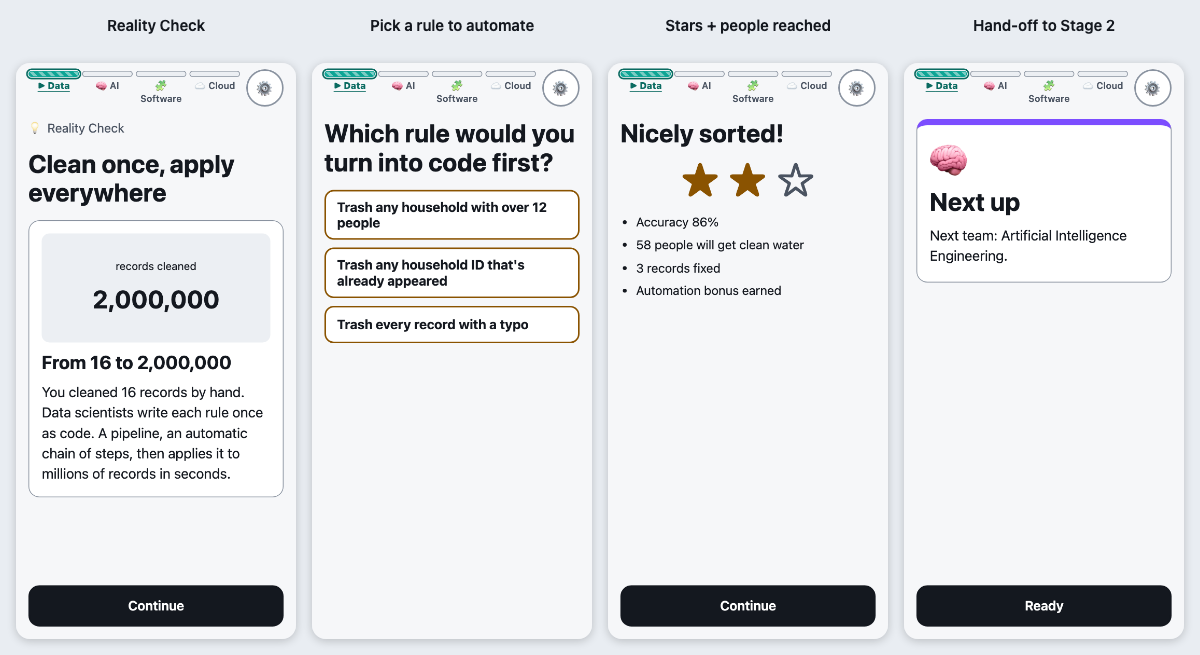
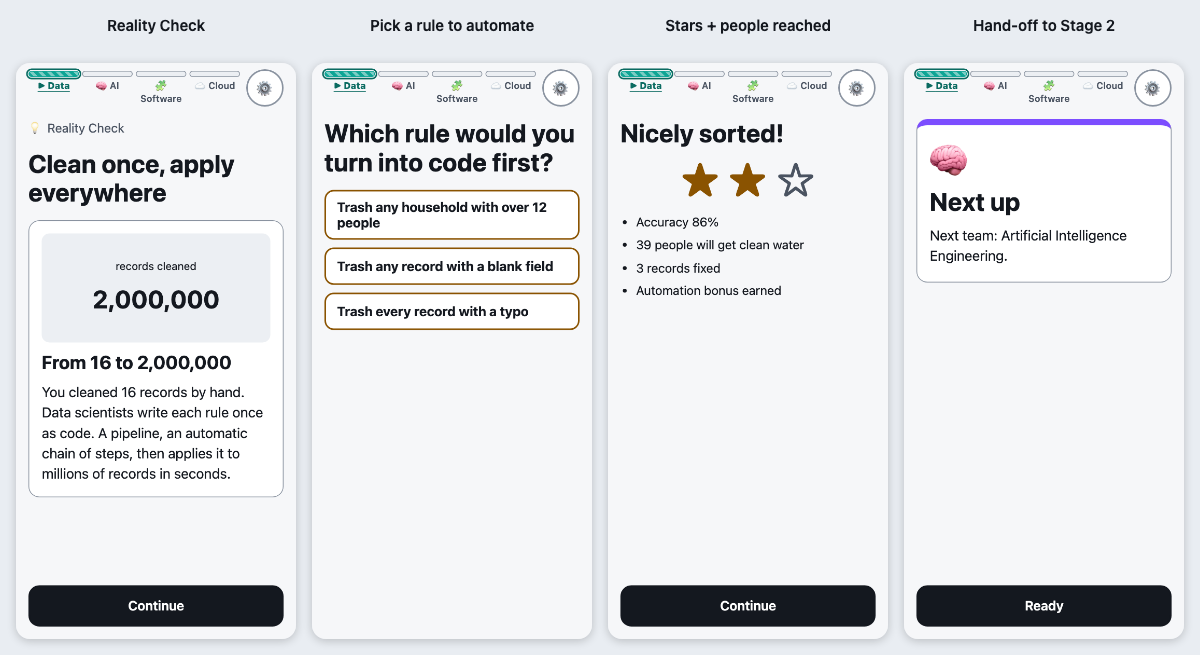
Stage 1: Level 2 only adds Fix (no duplicates or outliers); automate question is now blank fields; expected timings in spec

Changed region(s): [[0.2467, 0.3969, 0.4933, 0.5191], [0.5242, 0.3664, 0.555, 0.3969]]

diff --git a/src/stages/data/logic.test.ts b/src/stages/data/logic.test.ts
@@ -466,7 +466,7 @@ describe('scoring', () => {
   });
 
   // Hand-computed runs, one per star band.
-  it('3★ careful player: 19/20, one early miss, picks dupes', () => {
+  it('3★ careful player: 19/20, one early miss, picks blanks', () => {
     // L1 perfect = 10. L2: one wrong at card 1 (w=1, no hint) → 9. 19/20 = 0.95.
     const acc = dataAccuracy([play(l1, 2, 'RRRRRRRRRR'), play(l2, 2, 'WRRRRRRRRR')]);
     expect(acc).toBeCloseTo(0.95);
@@ -476,7 +476,7 @@ describe('scoring', () => {
     expect(dataStars(stageScore({ accuracy: acc, ruleChosen: false, outlier: null }), STARS)).toBe(2); // 0.855
   });
 
-  it('2★ first-timer: 15/20 right with hints, picks dupes', () => {
+  it('2★ first-timer: 15/20 right with hints, picks blanks', () => {
     // L1: wrongs at 2,6 → card 7 hinted (0.75): 7 + 0.75 = 7.75.
     // L2: wrongs at 3,5,8 → card 6 hinted (0.75), card 9 answered (0.5): 5 + 0.75 + 0.5 = 6.25.
     const acc = dataAccuracy([play(l1, 3, 'RWRRRWRRRR'), play(l2, 3, 'RRWRWRRWRR')]);
@@ -510,9 +510,9 @@ describe('scoring', () => {
   it('isRuleChosen', () => {
     const opts = [
       { id: 'big-households', correct: false },
-      { id: 'dupes', correct: true },
+      { id: 'blanks', correct: true },
     ];
-    expect([isRuleChosen(opts, 'dupes'), isRuleChosen(opts, 'big-households'), isRuleChosen(opts, null)]).toEqual([true, false, false]);
+    expect([isRuleChosen(opts, 'blanks'), isRuleChosen(opts, 'big-households'), isRuleChosen(opts, null)]).toEqual([true, false, false]);
   });
 
   it('dataStars maps thresholds at the edges', () => {
@@ -609,7 +609,7 @@ describe.skipIf(!recordsJson)('content: records.json cross-check (skipped: src/c
             if (r.duplicateOf) expect(i - deck.findIndex((o) => o.id === r.duplicateOf), tag).toBeGreaterThanOrEqual(2);
           });
         }
-        if (level.id === 'data-l2') expect(deck.some((r) => r.rule === 5), tag).toBe(true);
+        if (level.id !== 'data-tutorial' && level.rules.includes(5)) expect(deck.some((r) => r.rule === 5), tag).toBe(true);
       }
     }
   });

diff --git a/e2e/stage1.spec.ts b/e2e/stage1.spec.ts
@@ -35,7 +35,7 @@ test('Stage 1: perfect play earns 3 stars and hands off to Stage 2', async ({ pa
   // Reality Check → automate → stars → hand-off.
   await expect(page.getByRole('heading', { name: 'Clean once, apply everywhere' })).toBeVisible();
   await page.getByRole('button', { name: 'Continue' }).click();
-  await page.getByRole('button', { name: /already/i }).click();
+  await page.getByRole('button', { name: /blank field/i }).click();
   await page.getByRole('button', { name: 'Continue' }).click();
   await expect(page.getByText('3 of 3 stars').first()).toBeAttached();
   await page.getByRole('button', { name: 'Continue' }).click();

diff --git a/src/stages/data/logic.ts b/src/stages/data/logic.ts
@@ -506,7 +506,7 @@ export function outlierBonus(judgements: readonly OutlierJudgement[], chartCount
   return clamp(sum / chartCount, 0, 1);
 }
 
-/** Reality Check pick: true iff the picked automate option is the one marked correct ("dupes"). */
+/** Reality Check pick: true iff the picked automate option is the one marked correct ("blanks"). */
 export function isRuleChosen(options: readonly { id: string; correct: boolean }[], pickedId: string | null): boolean {
   return !!pickedId && options.some((o) => o.id === pickedId && o.correct);
 }

diff --git a/e2e/group.spec.ts b/e2e/group.spec.ts
@@ -355,7 +355,7 @@ test('hand-off: the next main player is named and taps Ready on their own phone'
     await playCards(ben);
   }
   await ben.getByRole('button', { name: 'Continue' }).click();
-  await ben.getByRole('button', { name: /already/i }).click();
+  await ben.getByRole('button', { name: /blank field/i }).click();
   await ben.getByRole('button', { name: 'Continue' }).click();
   await ben.getByRole('button', { name: 'Continue' }).click();
   // Ben's hand-off card names Ann; Ann's phone offers Ready.

diff --git a/src/content/stage1Schema.ts b/src/content/stage1Schema.ts
@@ -157,7 +157,7 @@ export const stage1CopySchema = z.object({
   }),
   automate: z.object({
     question: words(12),
-    options: z.object({ dupes: words(10), 'big-households': words(10), typos: words(10) }),
+    options: z.object({ blanks: words(10), 'big-households': words(10), typos: words(10) }),
     right: words(20),
     wrong: words(20),
   }),

diff --git a/docs/GAME_SPEC.md b/docs/GAME_SPEC.md
@@ -65,15 +65,18 @@ One length for everyone: **≈ 16 min of play** (core levels). It fits the 20-mi
 
 **Team timing:** the player's phone owns the level timer. Hand-off cards (where the turn passes) are short, about 10s, with a "Ready" tap from the next player's phone.
 
-| Segment | Time | Content |
-|---|---|---|
-| Prologue | 1 min | Mission briefing, 10-sec "how to play" |
-| Stage 1: Data | 3 min | §4 |
-| Stage 2: AI | 3 min | §5 |
-| Stage 3: Problem solving | 3 min | §6 |
-| Stage 4: Cloud/SRE | 3 min | §7 |
-| Finale: Mission Live | 2 min | §8 |
-| Debrief & roles | 1 min | §8.3 |
+| Segment | Budget | Expected, first-timer (2026-10-17) | Content |
+|---|---|---|---|
+| Prologue | 1 min | ~0.5 min | Mission briefing, 10-sec "how to play" |
+| Stage 1: Data | 3 min | ~2.5–3 min (estimate) | §4 |
+| Stage 2: AI | 3 min | ~2–2.5 min (QA measured 127 s) | §5 |
+| Stage 3: Problem solving | 3 min | ~4 min (QA measured 241 s; the long one) | §6 |
+| Stage 4: Cloud/SRE | 3 min | ~3 min (estimate after the 45 s storms) | §7 |
+| Finale: Mission Live | 2 min | ~2 min | §8 |
+| Debrief & roles | 1 min | ~1 min | §8.3 |
+| **Total** | **16 min** | **~15 min solo** (13–17); a team adds ~1–2 min for the lobby and hand-offs | |
+
+Replays with bonus levels add roughly: Stage 1 +1 min, Stage 2 +1 min, Stage 3 +2 min. These are QA simulations and estimates; confirm in playtests (`docs/PLAYTEST_NOTES.md`).
 
 Each stage follows the same rhythm, so players learn the pattern:
 
@@ -191,23 +194,23 @@ Nicknames, device info, IPs, emails and any personal data are **never stored**. 
 A pinned "📘 Rulebook" button opens a bottom sheet. Show the **one new rule** as a card before each level. Rules:
 1. **Every field must be filled.** Missing sector or people count means Trash.
 2. **Numbers must make sense.** People 1–15, water 5–200 L per household.
-3. **No duplicates.** Same household ID twice means trash the second.
+3. **No duplicates.** Same household ID twice means trash the second. *(Not dealt since 2026-10-17: kept in the rulebook data only.)*
 4. **Fix what's fixable.** Typos (`Sectr B` → `B`), wrong units (`40000 ml` → `40 L`), lowercase (`b` → `B`).
-5. **Outlier ≠ error.** A household of 14 is unusual but possible, so keep it.
+5. **Outlier ≠ error** *(bonus Spot the Outlier only)*. A household of 14 is unusual but possible, so keep it.
 
 ### 4.2 Levels
 | Level | Mechanic | Rules in play | Size / time |
 |---|---|---|---|
 | Tutorial | Swipe 3 obvious cards with an animated hand hint | 1 | 3 cards, untimed |
 | L1 Keep or Trash | Swipe right = keep, left = trash (buttons also available) | 1–2 | 8 cards / 60s |
-| L2 Keep, Fix or Trash | Swipe up (or Fix button) opens a quick-fix picker with 2–3 options. New: duplicates and fixes | 1–5 | 8 cards / 90s |
+| L2 Keep, Fix or Trash | Swipe up (or Fix button) opens a quick-fix picker with 2–3 options. New: fixes only | 1, 2, 4 | 8 cards / 90s |
 | Bonus L3 Spot the Outlier | Bar chart of 20 households; tap bars that are **errors** (not just unusual) | 2, 5 | 3 charts / 45s |
 
 - On an error, show a one-line toast naming the rule broken ("Rule 3: duplicate").
 - **Hook (2026-10-17):** the briefing goes straight into the tutorial, which opens on a clean card, so the first swipe is a win within seconds. A **💧 people reached** counter grows with every record correctly kept or fixed. A **rule strip** above the card shows the rules in play as short chips ("Blank field → Trash", "People 1–15, water 5–200 L"…), so nobody has to memorise them.
 
 ### 4.3 Reality Check: "Clean once, apply everywhere"
-Animation: the player's 16 hand-sorted cards shrink, then a counter shoots up to **2,000,000 records**. Text: *"You cleaned 16 by hand. Data scientists write each rule once as code, and a pipeline applies it to millions of rows in seconds."* The player then gets **one tap** to choose which rule to automate (3 options). The correct choice gives a bonus.
+Animation: the player's 16 hand-sorted cards shrink, then a counter shoots up to **2,000,000 records**. Text: *"You cleaned 16 by hand. Data scientists write each rule once as code, and a pipeline applies it to millions of rows in seconds."* The player then gets **one tap** to choose which rule to automate (3 options): *trash records with a blank field* (correct: a blank can never be guessed), *trash households over 12 people* (bins real data) or *trash every typo* (typos can be fixed). The correct choice gives a bonus.
 
 ### 4.4 Content needed
 - `records.json`: ≥ 40 records (so replays vary), each with `valid | fixable | invalid`, the fix options, and the rule id. **`[FILL]` optional: local place or sector names.**

diff --git a/docs/DECISIONS.md b/docs/DECISIONS.md
@@ -216,3 +216,4 @@
 | 2026-10-17 | Clean-up | Removed the unused app-wide submit queue (team play has its own in `src/net/group/submit.ts`); stale support-card / full-mode comments; buttons now left-align their label and push only the grey detail to the right. | No |
 | 2026-10-17 | Docs | `docs/GAME_FLOWS.md` regenerated from a local build with real Supabase Realtime (`e2e-live/capture-flows.mjs`); `e2e-live/group-live.mjs` and `race.mjs` updated to the team flow. | No |
 | 2026-10-17 | Stage 1 easier, round 2 (owner: "still quite hard") | **Owner chose:** (A) an always-visible **rule strip** of short chips above the card (`rulebook.json` `chip`, `RuleStrip` in `src/components/Rulebook.tsx`); (B) more time: Level 1 60 s (was 45), Level 2 90 s (was 60); (C) Level 2 is 8 cards (was 10). Reality Check fallback count follows the content (now 16). Not changed: duplicates stay in Level 2, stars 30/65/88%. | Done |
+| 2026-10-17 | Stage 1 easier, round 3 (owner) | **Owner: no duplicates or outliers in Stage 1; Level 2 just adds Fix.** Level 2 rules 1, 2, 4 (new: 4). Rule 5 is introduced on the bonus Spot the Outlier (its intro shows the rule-5 card). Rule 3 (duplicates) is no longer dealt anywhere; it stays in `rulebook.json` (the schema needs 5 rules). Rule 2's card drops the "14 people? Keep" line. **Automate question** now: correct = "Trash any record with a blank field" (id `blanks`, a blank can never be guessed); wrong = over-12 households (real data), every typo (fixable). | Done |

diff --git a/docs/OWNER_INPUTS.md b/docs/OWNER_INPUTS.md
@@ -20,7 +20,7 @@ Try it: https://digital-vocation-activity.vercel.app/?debug=1&stage=1
 - [x] **5. Level sizes:** *Closed 2026-10-17 (Stage 1 hook): tutorial 3 cards, Level 1 is 8 cards in 60 s, Level 2 is 8 cards in 90 s, with the rules always shown above the card.*
 - [x] **6. Rules per level:** *Closed 2026-10-17 (Stage 1 hook): Level 1 adds rule 2 only; Level 2 adds duplicates and fixes (3, 4); rule 5 is folded into rule 2's card.*
 - [ ] **7. Stars:** 1★ at 30%, 2★ at 65%, 3★ at 88%. A careful player gets about 3★ and a first-timer about 2★. *Default: keep.*
-- [ ] **8. Automate question:** "Which rule would you turn into code first?" The correct answer is "trash repeated household IDs". The wrong answers are "trash households over 12 people" and "trash every typo". *Default: keep.*
+- [ ] **8. Automate question:** "Which rule would you turn into code first?" The correct answer is "trash any record with a blank field" (changed 2026-10-17: duplicates are no longer in Stage 1). The wrong answers are "trash households over 12 people" and "trash every typo". *Default: keep.*
 - [x] **9. Full mode is short:** Stage 1 takes about 2.6 min against the 5–6 min budget. *Default: add content after the M8 playtests.* *Closed 2026-10-17: Solo/Team simplification (no full mode / no support cards).*
 - [ ] **10. Extra Rulebook examples:** these aren't in the spec: "People: 0", "Water: 900 L", "ID 1042 (second time)". *Default: keep.*
 

diff --git a/docs/GAME_FLOWS.md b/docs/GAME_FLOWS.md
@@ -38,7 +38,7 @@ Home → **Play solo** → the mission → the Stage 1 briefing → the first ca
 ![Solo start](flows/solo-start.png)
 
 ### Stage 1: Clean the Data (the hook)
-The tutorial opens on a clean card, so the first swipe is a win. Level 1 teaches **one** new rule (numbers must make sense). Every good card adds to the **💧 people reached** counter. Level 2 brings in duplicates and the **Fix** button.
+The tutorial opens on a clean card, so the first swipe is a win. Level 1 teaches **one** new rule (numbers must make sense). Every good card adds to the **💧 people reached** counter. Level 2 adds just one thing: the **Fix** button. The rules in play always show as chips above the card.
 ![Stage 1](flows/solo-stage1.png)
 ![Stage 1 end](flows/solo-stage1-end.png)
 
